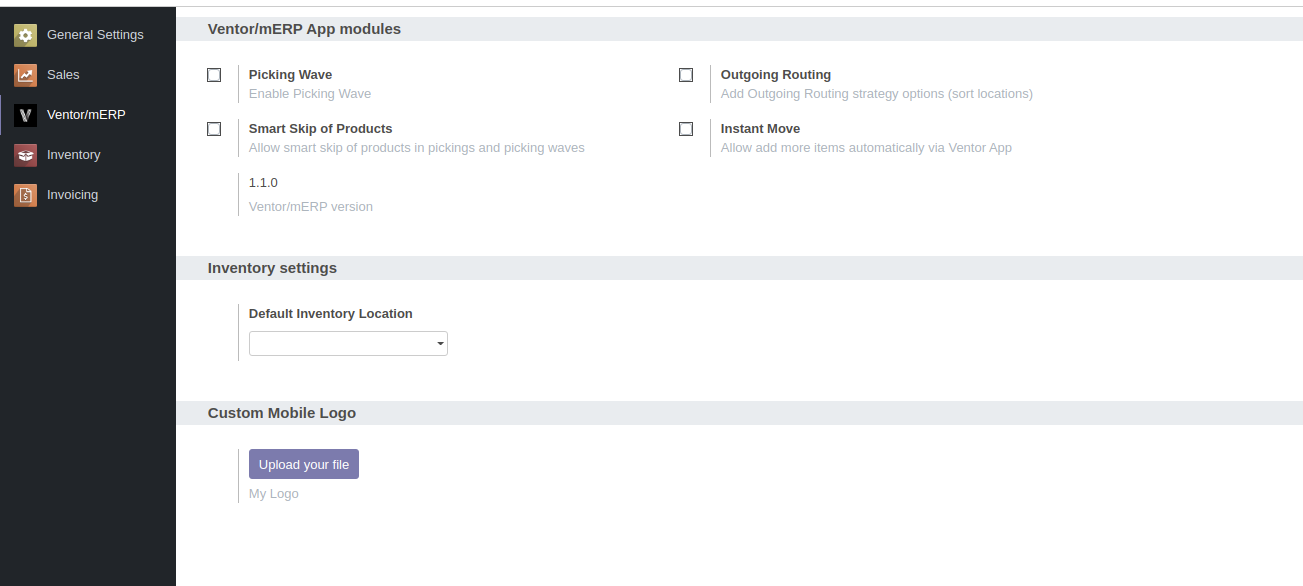
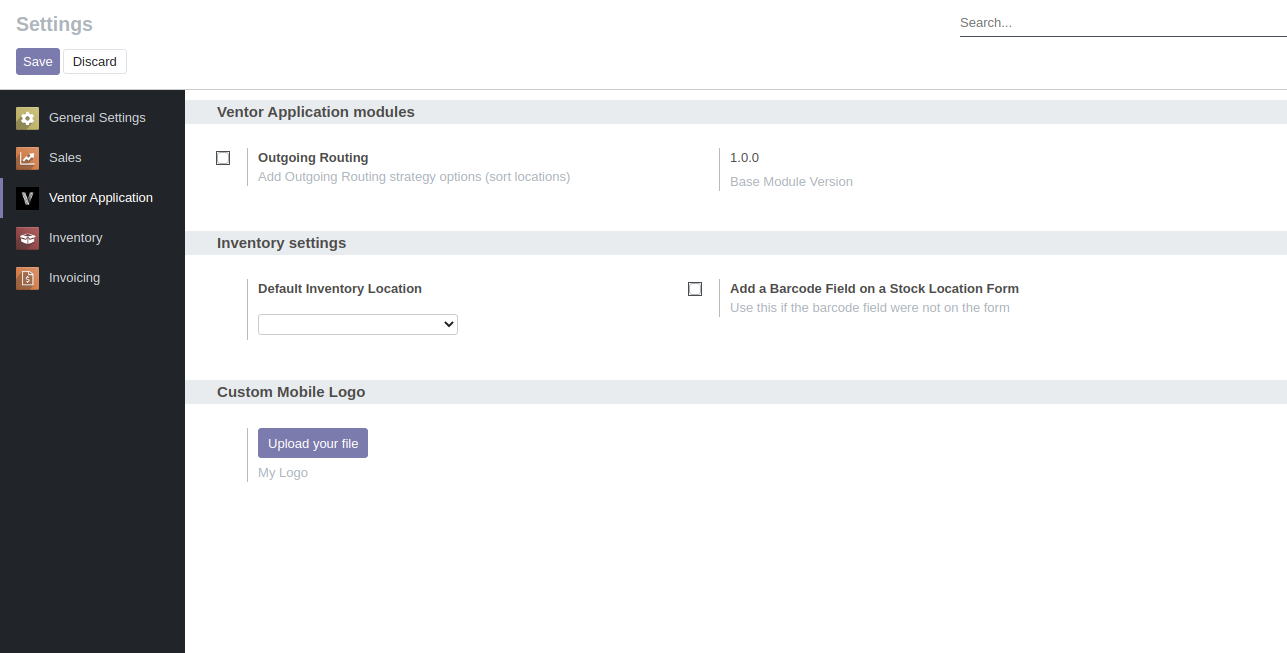
From VAOM-1 to 14.0 (#122)
* init

* [IMP] Migrate to odoo 14

* [IMP] Included the merp_default_location, migrated to 14

* [IMP] Included the merp_default_location, migrated to 14

* [IMP] Included the merp_default_location, migrated to 14

* [IMP] Included the merp_default_location, migrated to 14

* [IMP] Included the custom access right and the custom logotype

* [IMP] Included the custom access right and the custom logotype

* [FIX] The Fixes after the code review

* [FIX] The Fixes after the code review

* [IMP] Added the barcode field on form, oppitunity to manage it

* [REF] Corrected set_values and get_values

* [FIX] Fixed a link to a picture on a description

* [FIX] Fixed the description, remove some fields in the settings

diff --git a/ventor_base/static/description/index.html b/ventor_base/static/description/index.html
@@ -13,7 +13,7 @@
         </div>
         <div class="oe_span6">
             <div class="oe_row_img oe_centered">
-                <img class="oe_picture oe_screenshot" src="merp_base.jpg">
+                <img class="oe_picture oe_screenshot" src="merp_base.png">
             </div>
         </div>
         <div class="oe_span6">
@@ -32,44 +32,53 @@ It allows user to install/uninstall modules via Inventory/Warehouse Settings scr
             </p>
         </div>
     </div>
-    <div class="oe_span6">
-        <div class="oe_row_img oe_centered">
-            <img class="oe_picture oe_screenshot" src="merp_base_1.png"/>
+    <div class="oe_row">
+
+        <div class="oe_span6">
+            <div class="oe_row_img oe_centered">
+                <img class="oe_picture oe_screenshot" src="merp_base_1.png"/>
+            </div>
+        </div>
+        <div class="oe_span6">
+            <p class="oe_mt32">
+    In case there are multiple warehouses, this modules allows to select default warehouse that will be pre-selected for user when using menu "Internal Transfer"
+            </p>
+            <p class="oe_mt32">
+    Allows to define default location that will be used for Inventory Adjustments instead of default 'WH/Stock'.
+            </p>
+        </div>
+
+    </div>
+    <div class="oe_row">
+
+        <div class="oe_span6">
+            <div class="oe_row_img oe_centered">
+                <img class="oe_picture oe_screenshot" src="merp_base_2.png">
+            </div>
+        </div>
+
+        <div class="oe_span6">
+            <p class="oe_mt32">
+    Adds special access rights required by the "Ventor" app:
+            </p>
+            <ul>
+                <li>Warehouse Operations Menu</li>
+                <li>Inventory Adjustments Menu</li>
+                <li>Instant Inventory Menu</li>
+                <li>Internal Transfers Menu</li>
+                <li>Manufacturing Menu</li>
+                <li>Create Sales Order Menu</li>
+                <li>Quick Info Menu</li>
+                <li>Batch Picking Menu</li>
+                <li>Ventor Access Rights</li>
+                <li>and more ...</li>
+            </ul>
+            <p class="oe_mt32">
+    Module also allows to define user's default stock location for instant moves.
+            </p>
         </div>
     </div>
-    <div class="oe_span6">
-        <p class="oe_mt32">
-In case there are multiple warehouses, this modules allows to select default warehouse that will be pre-selected for user when using menu "Internal Transfer"
-        </p>
-        <p class="oe_mt32">
-Allows to define default location that will be used for Inventory Adjustments instead of default 'WH/Stock'.
-        </p>
-    </div>
-    <div class="oe_span6">
-        <div class="oe_row_img oe_centered">
-            <img class="oe_picture oe_screenshot" src="merp_base_2.jpg">
-        </div>
-    </div>
-    <div class="oe_span6">
-        <p class="oe_mt32">
-Adds special access rights required by the "Ventor" app:
-        </p>
-        <ul>
-            <li>Warehouse Operations Menu</li>
-            <li>Inventory Adjustments Menu</li>
-            <li>Instant Inventory Menu</li>
-            <li>Internal Transfers Menu</li>
-            <li>Manufacturing Menu</li>
-            <li>Create Sales Order Menu</li>
-            <li>Quick Info Menu</li>
-            <li>Batch Picking Menu</li>
-            <li>Ventor Access Rights</li>
-            <li>and more ...</li>
-        </ul>
-        <p class="oe_mt32">
-Module also allows to define user's default stock location for instant moves.
-        </p>
-    </div>
+
 </section>
 
 <section class="oe_container">

diff --git a/ventor_base/models/res_config.py b/ventor_base/models/res_config.py
@@ -24,18 +24,6 @@ class VentorConfigSettings(models.TransientModel):
         string='Outgoing Routing'
     )
 
-    module_picking_wave = fields.Boolean(
-        string='Picking Wave',
-    )
-
-    module_picking_products_skip = fields.Boolean(
-        string='Smart Skip of Products',
-    )
-
-    module_instant_move = fields.Boolean(
-        string='Instant Move',
-    )
-
     add_barcode_on_view = fields.Boolean(
         string='Add a Barcode Field on a Stock Location Form',
     )

diff --git a/ventor_base/models/stock_location_mixin.py b/ventor_base/models/stock_location_mixin.py
@@ -6,6 +6,9 @@ from odoo import models, fields, api
 
 class StockLocationMixin(models.Model):
     _name = 'stock.location.mixin'
+    _description = """Implement a method below for 
+                      the product.template and
+                      stock.inventory models"""
 
     def _get_default_location_warehouse(self):
         default_location_id = (
